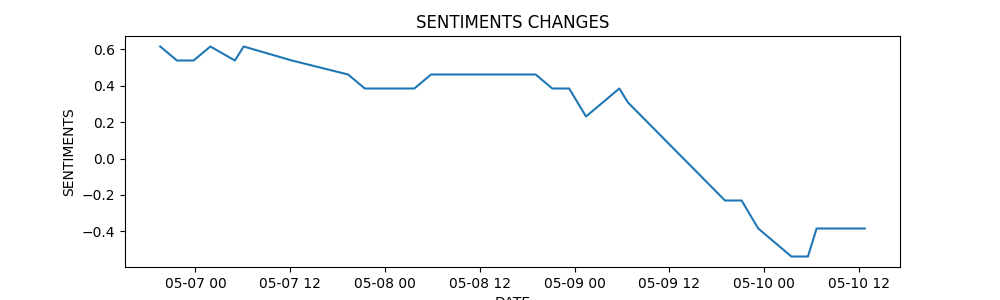
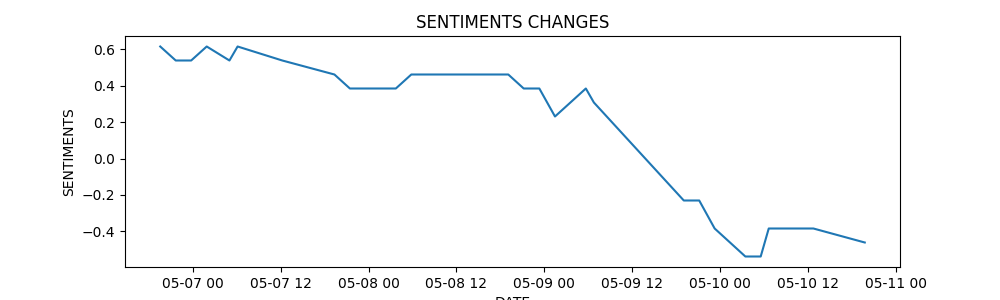
Commit

diff --git a/finance.html b/finance.html
@@ -13,7 +13,7 @@
                 <img style = "width:70px;" src="image/MNAZ.gif" alt="MNAZ Web">
                 <button id="darkModeToggle">Toggle Dark Mode</button>
               </header>
-              <h2>Date: 2023-05-10 12:45:51.590718</h2>
+              <h2>Date: 2023-05-10 19:47:08.679649</h2>
               <div class="container">
                 <div class="half">
                   <h2>News</h2>
@@ -21,19 +21,19 @@
                   <a href = "https://www.investing.com/currencies/usd-jpy-news" target = "_blank">Scraped From Investing.com </a>
                   <ul id="newsList" class="hidden">
                       
-<li style = 'font-weight: bold;'>Wall Street closes down as focus shifts to inflation data, debt talks<ul><li style = 'font-size: smaller;font-style: italic;'>Negative</li></ul></li>
-<li style = 'font-weight: bold;'>Biden, McCarthy divided over debt ceiling but talks continue<ul><li style = 'font-size: smaller;font-style: italic;'>Neutral</li></ul></li>
-<li style = 'font-weight: bold;'>U.S. CPI ahead, Chinese trade data, Saudi Aramco dividend - what's moving markets<ul><li style = 'font-size: smaller;font-style: italic;'>Neutral</li></ul></li>
+<li style = 'font-weight: bold;'>U.S. inflation looms, debt ceiling talks, Disney reports - what's moving markets<ul><li style = 'font-size: smaller;font-style: italic;'>Neutral.</li></ul></li>
+<li style = 'font-weight: bold;'>Oil falls on surprise increase to U.S. inventories<ul><li style = 'font-size: smaller;font-style: italic;'>Negative</li></ul></li>
+<li style = 'font-weight: bold;'>Dollar awaits inflation data, rattled by debt ceiling impasse<ul><li style = 'font-size: smaller;font-style: italic;'>Negative</li></ul></li>
+<li style = 'font-weight: bold;'>Dow futures fall 45 pts; key inflation data looms large<ul><li style = 'font-size: smaller;font-style: italic;'>Neutral</li></ul></li>
+<li style = 'font-weight: bold;'>Marketmind: Inflation cloud obscures Fed peak<ul><li style = 'font-size: smaller;font-style: italic;'>Negative</li></ul></li>
 <li style = 'font-weight: bold;'>Dow futures flat, Airbnb sheds 11.4% after earnings<ul><li style = 'font-size: smaller;font-style: italic;'>Neutral</li></ul></li>
-<li style = 'font-weight: bold;'>Stocks stumble as investors' nerves show ahead of US inflation data<ul><li style = 'font-size: smaller;font-style: italic;'>Negative</li></ul></li>
+<li style = 'font-weight: bold;'>Analysis-Options investors guard against U.S. stock tumble, despite buoyant markets<ul><li style = 'font-size: smaller;font-style: italic;'>Neutral</li></ul></li>
 <li style = 'font-weight: bold;'>Wall Street closes down as focus shifts to inflation data, debt talks<ul><li style = 'font-size: smaller;font-style: italic;'>Negative</li></ul></li>
 <li style = 'font-weight: bold;'>T-bills hit by US debt ceiling worries, stocks slip ahead of CPI<ul><li style = 'font-size: smaller;font-style: italic;'>Negative</li></ul></li>
 <li style = 'font-weight: bold;'>Stock market today: Dow falls on pressure from PayPal, chip stocks; Inflation eyed<ul><li style = 'font-size: smaller;font-style: italic;'>Neutral</li></ul></li>
 <li style = 'font-weight: bold;'>S&P 500 slips as PayPal, chip stocks weigh<ul><li style = 'font-size: smaller;font-style: italic;'>Negative</li></ul></li>
 <li style = 'font-weight: bold;'>Shares of data analytics firm Palantir surge 22% on profit forecast<ul><li style = 'font-size: smaller;font-style: italic;'>Positive</li></ul></li>
 <li style = 'font-weight: bold;'>Dow futures fall 125 pts; caution ahead of consumer inflation data<ul><li style = 'font-size: smaller;font-style: italic;'>Neutral</li></ul></li>
-<li style = 'font-weight: bold;'>Marketmind: Showdown on the ceiling<ul><li style = 'font-size: smaller;font-style: italic;'>Neutral</li></ul></li>
-<li style = 'font-weight: bold;'>Shares rise, dollar flat ahead of key U.S. inflation data<ul><li style = 'font-size: smaller;font-style: italic;'>Positive</li></ul></li>
                   </ul>
                 </div>
                 <div class="half">
@@ -44,10 +44,10 @@
                 <p style = 'font-weight:bold;'>ChatGPT SENTIMENTS</p>
                 <ul>
                     <li style = 'font-size: smaller;font-style: italic;'>
-                        Positive: 2
+                        Positive: 1
                     </li>
                     <li style = 'font-size: smaller;font-style: italic;'>
-                        Negative: 5
+                        Negative: 6
                     </li>
                     <li style = 'font-size: smaller;font-style: italic;'>
                         Neutral: 6
@@ -59,10 +59,10 @@
                         Positive: 15%
                     </li>
                     <li style = 'font-size: smaller;font-style: italic;'>
-                        Negative: 46%
+                        Negative: 53%
                     </li>
                     <li style = 'font-size: smaller;font-style: italic;'>
-                        Neutral: 38%
+                        Neutral: 30%
                     </li>
                 </ul>
                 <p style = 'font-weight:bold;'>BAYES CLASS</p>
